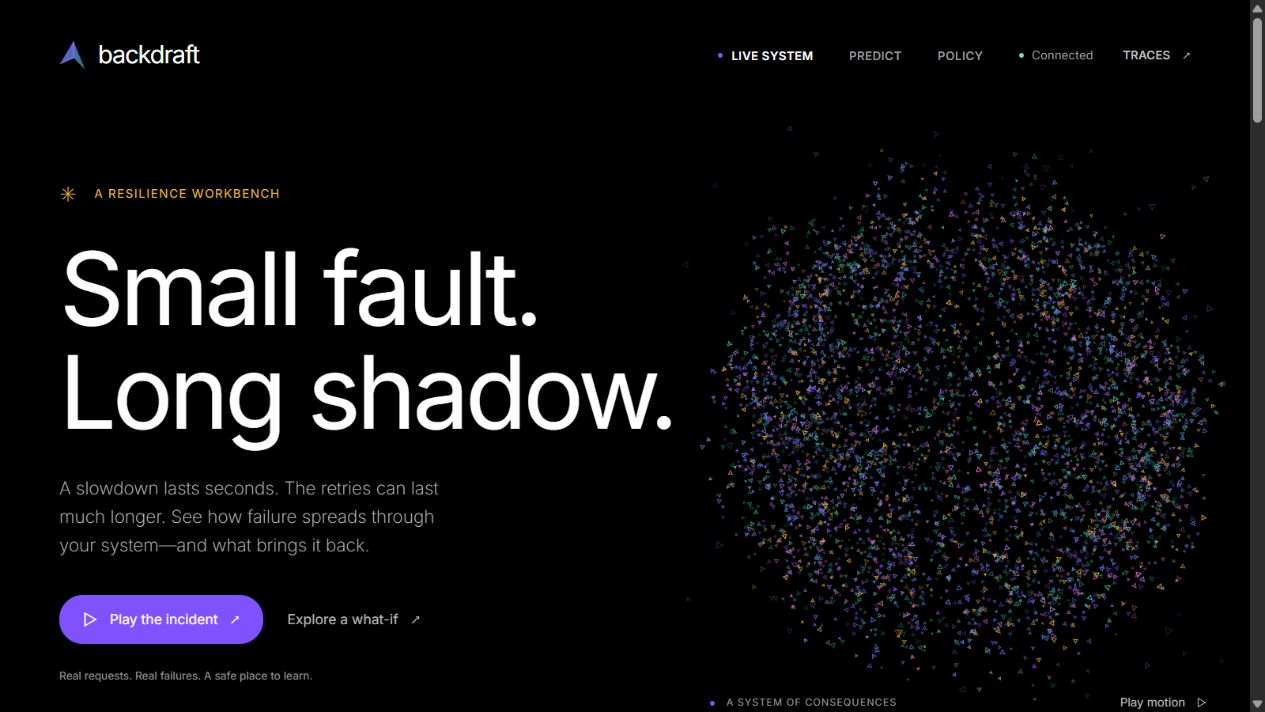
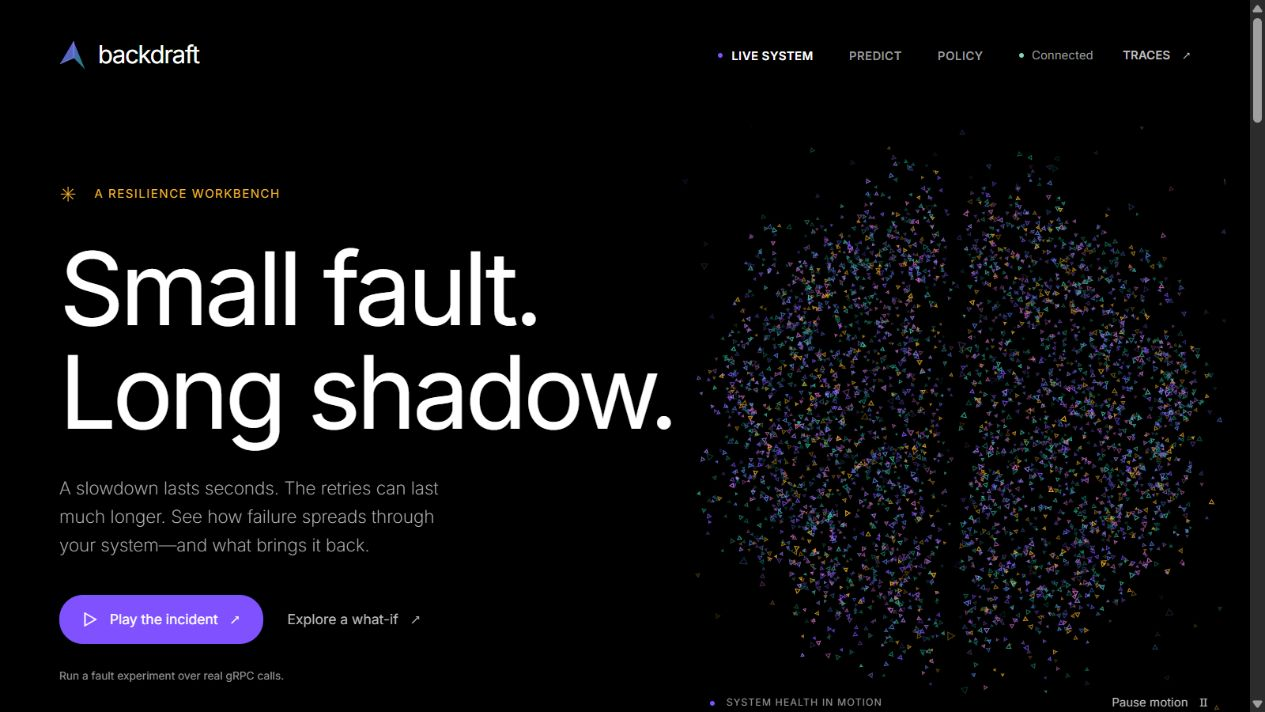
Add a recorded product tour and tighten introductory copy

Changed region(s): [[0.5549, 0.2163, 0.9557, 1.0], [0.8632, 0.9579, 0.9557, 1.0], [0.0617, 0.927, 0.2466, 0.9579]]

diff --git a/web/src/App.tsx b/web/src/App.tsx
@@ -40,12 +40,12 @@ function LiveView() {
             ) : <a href="#observe" className="btn primary">Explore your system <span aria-hidden>↗</span></a>}
             <button className="btn ghost" onClick={() => setView('predict')}>Explore a what-if <span aria-hidden>↗</span></button>
           </div>
-          <div className="hero-note">{state?.load ? 'Real requests. Real failures. A safe place to learn.' : 'Your live traffic, connected end to end.'}</div>
+          <div className="hero-note">{state?.load ? 'Run a fault experiment over real gRPC calls.' : 'Inspect traffic across your connected services.'}</div>
         </div>
         <div className="hero-art">
           <Constellation paused={paused} />
           <div className="constellation-caption">
-            <span><span className="dot live" /> A system of consequences</span>
+            <span><span className="dot live" /> System health in motion</span>
             <button className="btn ghost small" aria-label={paused ? 'Resume constellation animation' : 'Pause constellation animation'} onClick={() => setPaused(!paused)}>{paused ? 'Play motion' : 'Pause motion'} <span aria-hidden>{paused ? '▷' : 'Ⅱ'}</span></button>
           </div>
         </div>
@@ -70,7 +70,7 @@ function LiveView() {
       <FindingsRail />
       <footer className="footer">
         <div className="brand"><Mark /><span className="brand-name">backdraft</span></div>
-        <span>Understand the failure. Change the outcome.</span>
+        <span>A local workbench for service resilience.</span>
         <button className="btn ghost" onClick={() => window.scrollTo({ top: 0, behavior: 'smooth' })}>Back to top ↑</button>
       </footer>
     </main>

diff --git a/README.md b/README.md
@@ -1,13 +1,19 @@
 # Backdraft
 
-Retry storms can keep a service overloaded after the original slowdown ends.
-Backdraft helps investigate that failure mode: inspect retries across a gRPC
-call graph, reproduce an incident, and compare policy changes before applying
-them.
+Backdraft is a local workbench for testing how gRPC services fail and recover.
+Inject a short slowdown, inspect the retries and queues it leaves behind,
+then compare or apply a policy change.
 
 [![CI](https://github.com/SanishKumar/Backdraft-go-microservices/actions/workflows/ci.yml/badge.svg)](https://github.com/SanishKumar/Backdraft-go-microservices/actions/workflows/ci.yml)
 
-![Backdraft live workspace](docs/images/backdraft.png)
+![Backdraft demo: a Catalog slowdown causes a retry storm, then a policy change restores service](docs/images/backdraft-demo.gif)
+
+A 30-second tour recorded in the local lab, with pauses shortened. Catalog
+slows for eight seconds; retries keep the system overloaded after the fault
+clears. A retry budget restores service. The final views compare policy
+predictions and map the failure boundary across loads and fault durations.
+
+[View the static screenshot](docs/images/backdraft.png).
 
 ## Quick start
 
@@ -138,6 +144,7 @@ and the live stream to port 7070.
 go test -short ./...          # unit and integration tests
 go test ./internal/lab        # live failure and recovery experiment
 go vet ./...
+python -B -m unittest discover -s scripts -p "test_*.py"
 cd web
 npm run typecheck
 npm run build
@@ -154,9 +161,8 @@ Compose smoke check against real databases.
 
 ## Scope
 
-Backdraft is a local resilience workbench. The observe → simulate → apply
-workflow is implemented; a hosted or production management service is outside
-the current scope.
+The control plane is intended for local experiments and service integration.
+It is not a hosted management service.
 
 - Unary RPCs are instrumented. Streaming RPCs pass through unchanged.
 - Traces, configuration overrides, and calibration are held in memory.
